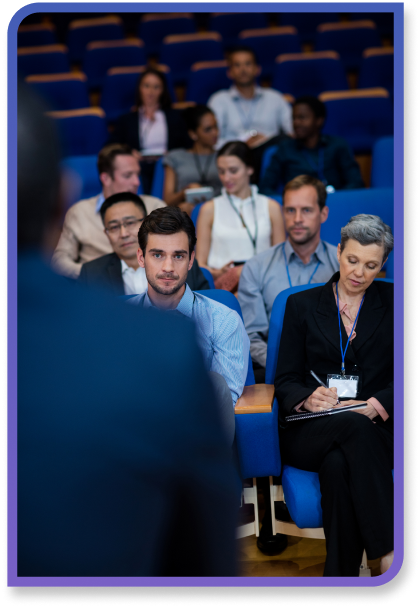
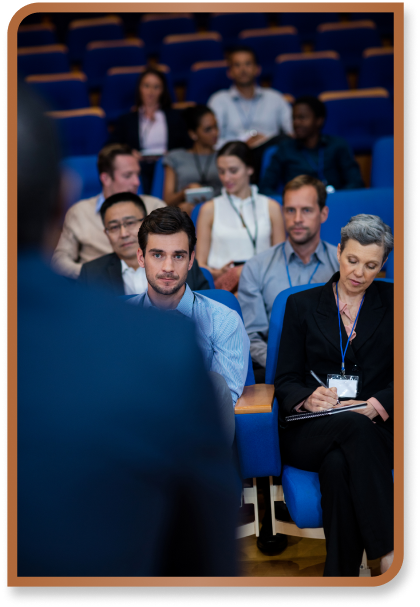
changed color scheme in hero and about us section, added animatinon and max paragraph width in about us

Changed region(s): [[0.0, 0.0, 0.9595, 0.9786]]

diff --git a/src/app/about/page.tsx b/src/app/about/page.tsx
@@ -1,56 +1,90 @@
+"use client"
+
+import { useState, useEffect } from "react";
 import React from "react";
 import Navbar from "@/components/Navbar";
 import Image from "next/image";
 import Link from "next/link";
 import Footer from "@/components/Footer";
 
+const GALLERY = [
+    {
+        url: "/about/hero.png"
+    },
+    {
+        url: "/about/hero2.png"
+    },
+    {
+        url: "/about/hero3.png"
+    },
+    {
+        url: "/about/hero4.png"
+    },
+]
+
+
 const About = () => {
+    const [currentIndex, setCurrentIndex] = useState(0);
+
+  useEffect(() => {
+    const intervalId = setInterval(() => {
+      setCurrentIndex((prevIndex) => (prevIndex + 1) % GALLERY.length);
+    }, 3000); // Set the desired interval time (in milliseconds)
+
+    return () => {
+      clearInterval(intervalId);
+    };
+  }, []);
   return (
     <>
     <Navbar />
     <div className="w-screen bg-HeroBackground">
-        <div className="mx-auto w-screen maxw-[1440px]">
-            <div className="relative w-full h-screen max-h-[800px]">
+        <div className="mx-auto w-screen">
+            <div className="relative w-full h-screen 2xl:h-[80vh] 4xl:max-h-[900px] overflow-hidden">
                 {/* top gradient*/}
-                <div className="absolute top-[-5%] w-full h-[70%] opacity-70 bg-gradient-to-b from-[#0e213f] to-transparent blur-3xl "></div>
+                <div className="absolute top-[-5%] w-full h-[70%] opacity-70 bg-gradient-to-b z-10 from-[#0e213f] to-transparent blur-3xl"></div>
 
                 {/* <div className="absolute bottom="> */}
                 <div className="absolute w-full bottom-[-10%] overflow-hidden h-[40%] z-20">
-                    <Image 
+                    {/* <Image 
                         src="/hero/GroupBottom.png" 
                         alt="About Hero img"
                         width={1920}
                         height={1080}
                         quality={100}
-                        className="w-full"
-                    ></Image>
+                        className="w-full h-full"
+                    ></Image> */}
                 </div>
-                    {/* bottom gradient*/}
-                    <div className="absolute bottom-[-10%] w-full h-[80%] bg-gradient-to-t from-[#0e203d] to-transparent blur-xl "></div>
-                    <div className="absolute bottom-[-10%] w-full h-[40%] bg-gradient-to-t from-[#0d2244] to-transparent blur-xl "></div>
-                    <div className="absolute bottom-[-10%] w-full h-[25%] bg-gradient-to-t from-[#0e213f] to-transparent blur- "></div>
-                {/* </div> */}
+                {/* bottom gradient*/}
+                <div className="absolute bottom-[-10%] w-full h-[80%] bg-gradient-to-t z-10 from-[#001212] to-transparent blur-xl "></div>
+                <div className="absolute bottom-[-10%] w-full h-[40%] bg-gradient-to-t z-10 from-[#001212] to-transparent blur-xl "></div>
 
                 {/* right gradient*/}
-                <div className="absolute right-0 -top-2 w-[5%] h-full bg-gradient-to-l from-[#0e213f] to-transparent blur-xl "></div>
-                <div className="absolute right-0 w-[5%] -top-2 h-full bg-gradient-to-l from-[##0e213f] to-transparent blurxl "></div>
+                <div className="absolute right-0 -top-2 w-[5%] h-full bg-gradient-to-l z-10 from-[#001212] to-transparent blur-2xl "></div>
+                <div className="absolute right-0 w-[5%] -top-2 h-full bg-gradient-to-l z-10 from-[#001212] to-transparent blur-3xl"></div>
 
                 {/* left gradient*/}
-                <div className="absolute -left-2 -top-2 w-[5%] h-[111%] bg-gradient-to-r from-[#0e213f] to-transparent blur-sm "></div>
+                <div className="absolute -left-2 -top-2 w-[5%] h-[111%] bg-gradient-to-r z-10 from-[#001212] to-transparent blur-lg "></div>
 
-                <Image 
-                    src="/about/hero.png" 
-                    alt="About Hero img"
-                    width={1920}
-                    height={1080}
-                    quality={100}
-                    className="w-full h-[100%]"
-                ></Image>
-                <h1 className="absolute top-1/2 left-1/2 -translate-x-1/2 -translate-y-1/2 font-bold text-[10vw] 2xl:text-[150px]">About Us</h1>
+                {GALLERY.map((image, index) => (
+                    <Image 
+                        key={index}
+                        src={image.url}
+                        alt={image.url}
+                        width={1920}
+                        height={1080}
+                        quality={100}
+                        className={`animate-fade-in absolute inset-0 h-full transition-all z-5 -translate-y-[30px] opacity-1 duration4000 ease-in-out w-full rounded-lg object-cover transform
+                            ${currentIndex === 2 ? "animate-from-bottom":""}
+                            ${index === currentIndex ? "block" : "hidden"}
+                        `}
+                    ></Image>
+                ))}
+            <h1 className="absolute top-1/2 left-1/2 z-10 -translate-x-1/2 -translate-y-1/2 font-bold text-[10vw] 2xl:text-[150px]">About Us</h1>
             </div>
-            <div className="bg-carouselBackground w-full">
-                <h1 className="bg-gradient-to-r from-[#445DB6] to-[#7860C5] text-transparent bg-clip-text text-2xl lg:text-3xl pt-[120px] text-center font-bold 3xl:text-[2vw] 4xl:text-3xl">PREVIOUS EDITION</h1>
-                <p className="text-[#143A81] w-[85%] lg:w-[80%] mx-auto lg:text-lg mt-4 pb-4 3xl:text-[1.3vw] 3xl:leading-[2vw] 4xl:text-xl " 
+            <div className="bg-[#D7E1E3] w-full">
+                <h1 className="bg-textBG text-transparent bg-clip-text text-2xl lg:text-3xl pt-[120px] text-center font-bold 3xl:text-[2vw] 4xl:text-3xl">PREVIOUS EDITION</h1>
+                <p className="text-[#051418] max-w-[1920px] w-[85%] lg:w-[80%] mx-auto lg:text-lg mt-4 pb-12 3xl:text-[1.3vw] 3xl:leading-[2vw] 4xl:text-xl " 
                     style={{
                         wordWrap: 'break-word',
                         whiteSpace: 'pre-line',
@@ -75,7 +109,7 @@ const About = () => {
                     height={1080}
                     className="absolute w-full bottom-0"
                 ></Image> */}
-                <div className="flex w-[95%] lg:w-[80%] mx-auto pt-12 gap-2 lg:gap-16 pb-[70px] 3xl:text-[1.1vw] 3xl:leading-[2vw] 4xl:text-xl">
+                <div className="flex w-[95%] lg:w-[80%] mx-auto pt-12 gap-2 max-w-[1920px] lg:gap-16 pb-[70px] 3xl:text-[1.1vw] 3xl:leading-[2vw] 4xl:text-xl">
                     <div>
                         <h1 className="text-center text-2xl font-bold">ABOUT KIIT</h1> 
                         <div className="flex justify-center">
@@ -120,10 +154,10 @@ const About = () => {
                     </div> 
                 </div>
             </div>
-            <div className="w-full bg-carouselBackground">
-                <h1 className="bg-gradient-to-r from-[#445DB6] to-[#7860C5] text-transparent bg-clip-text text-2xl lg:text-3xl pt-[50px] text-center font-bold">ABOUT FOUNDER</h1>
+            <div className="w-full bg-[#D7E1E3] ">
+                <h1 className="bg-textBG text-transparent bg-clip-text text-2xl lg:text-3xl pt-[50px] text-center font-bold">ABOUT FOUNDER</h1>
                 <div className="flex justify-center">
-                    <div className="bg-gradient-to-b relative w-[150px] h-[150px] from-[#445DB6] to-[#7860C5] p-1 rounded-full mt-2">
+                    <div className="bg-gradient-to-b relative w-[150px] h-[150px] from-[#001212] to-[#1A4D54] p-1 rounded-full mt-2">
                         <span className="bg-white absolute w-[140px] h-[140px] top-1/2 flex justify-center items-center -translate-x-1/2 left-1/2 -translate-y-1/2 rounded-full">
                             <Image
                                 src="/about/founder.png" 
@@ -135,7 +169,7 @@ const About = () => {
                         </span>
                     </div>
                 </div>
-                <div className="flex w-[95%] lg:w-[80%] mx-auto gap-2 lg:gap-12 pb-[70px] text-[#143A81] 3xl:text-[1.3vw] 3xl:leading-[2vw] 4xl:text-xl" 
+                <div className="flex w-[95%] lg:w-[80%] max-w-[1920px] mx-auto gap-2 lg:gap-12 pb-[70px] text-[#020B10] 3xl:text-[1.3vw] 3xl:leading-[2vw] 4xl:text-xl" 
                     style={{
                         wordWrap: 'break-word',
                         whiteSpace: 'pre-line',
@@ -167,7 +201,7 @@ const About = () => {
                         className="h-full w-full"
                     ></Image>
                 </div>
-                <div className="w-[95%] lg:w-[80%] mx-auto"
+                <div className="w-[95%] lg:w-[80%] mx-auto max-w-[1920px] pb-12"
                     style={{
                         wordWrap: 'break-word',
                         whiteSpace: 'pre-line',
@@ -182,10 +216,6 @@ const About = () => {
                     <p className="mt-8 3xl:text-[1.1vw] 3xl:leading-[2vw] 4xl:text-xl">
                         Contrary to popular belief, Lorem Ipsum is not simply random text. It has roots in a piece of classical Latin literature from 45 BC, making it over 2000 years old. Richard McClintock, a Latin professor at Hampden-Sydney College in Virginia, looked up one of the more obscure Latin words, consectetur, from a Lorem Ipsum passage, and going through the cites of the word in classical literature, discovered the undoubtable source. Lorem Ipsum comes from sections 1.10.32 and 1.10.33 of de Finibus Bonorum Malorum The Extremes of Good and Evil by Cicero, written in 45 BC. This book is a treatise on the theory of ethics, very popular during the Renaissance. The first line of Lorem Ipsum, Lorem ipsum dolor sit amet.., comes from a line in section 1.10.32. The standard chunk of Lorem Ipsum used since the 1500s is reproduced below for those interested. Sections 1.10.32 and 1.10.33 from de Finibus Bonorum et Malorum by Cicero are also reproduced in their exact original form, accompanied by English versions from the 1914 translation by H. Rackham
                     </p>
-                </div>
-                <div className="mt-12 relative">
-                    <div className="bg-gradient-to-r from-[#445DB6] to-[#7860C5] w-full h-4 blur-lg "></div>
-                    <div className="bg-gradient-to-r from-[#445DB6] to-[#7860C5] w-full h-2 top-1/2 -translate-y-1/2 absolute"></div>
                 </div>
             </div>
         </div>

diff --git a/src/components/Hero.tsx b/src/components/Hero.tsx
@@ -9,7 +9,6 @@ import { TfiWorld } from "react-icons/tfi";
 const Hero = () => {
   return (
     <>
-    {/* <HeroMobileView /> */}
     <div className="font-sans w-screen h[150vh] bg-HeroBackground overflow-x-hidden z-[-10] hidden sm:block">
       <Image
         src="/hero/GroupTop.png"
@@ -95,16 +94,16 @@ const Hero = () => {
           </div>
           <div className="flex text-[40px] z-40">
             <Link href="https://www.google.com" target="_blank">
-              <TfiWorld className="border-r-none h-20 w-20 border-2 border-r-0 border-[#445DB6] px-4 py-4 bg-buttonBackground" />
+              <TfiWorld className="border-r-none h-20 w-20 border-2 border-r-0 border-[#AF693B] px-4 py-4 bg-buttonBackground" />
             </Link>
             <Link href="https://www.google.com" target="_blank">
-              <FaRegCalendarAlt className="h-20 w-20 border-2 border-r-0 border-[#445DB6] px-4 py-4" />
+              <FaRegCalendarAlt className="h-20 w-20 border-2 border-r-0 border-[#AF693B] px-4 py-4" />
             </Link>
             <Link href="https://www.google.com" target="_blank">
-              <FaImage className="h-20 w-20 border-2 border-r-0 border-[#445DB6] px-4 py-4" />
+              <FaImage className="h-20 w-20 border-2 border-r-0 border-[#AF693B] px-4 py-4" />
             </Link>
             <Link href="https://www.google.com" target="_blank">
-              <MdSecurity className="h-20 w-20 border-2 border-[#445DB6] px-4 py-4" />
+              <MdSecurity className="h-20 w-20 border-2 border-[#AF693B] px-4 py-4" />
             </Link>
           </div>
         </div>

diff --git a/src/components/EventDetail.tsx b/src/components/EventDetail.tsx
@@ -10,9 +10,9 @@ type EventDetailProps = {
 const EventDetail = ({ day, year, title, paragraph }: EventDetailProps) => {
   return (
     <div className="flex sm:gap-4 xl:gap-8">
-        <div className="rounded-full lg:w-[132px] sm:w-[100px] sm:h-[100px] md:w-[115px] md:h-[115px] flex-shrink-0 lg:h-[132px] bg-gradient-to-b from-[#445DB6] to-[#7860C5] p-[2px]">
-            <div className="h-full w-full rounded-full flex flex-col items-center justify-center bg-gradient-to-b from-[#011a41] to-[#1F3B68]">
-                <span className="sm:text-2xl md:text-3xl xl:text-4xl font-bold bg-gradient-to-r from-[#445DB6] to-[#7860C5] text-transparent bg-clip-text">{day}</span>
+        <div className="rounded-full lg:w-[132px] sm:w-[100px] sm:h-[100px] md:w-[115px] md:h-[115px] flex-shrink-0 lg:h-[132px] bg-gradient-to-b from-[#B0693B] to-[#C0896A] p-[2px]">
+            <div className="h-full w-full rounded-full flex flex-col items-center justify-center bg-gradient-to-b from-[#093338] to-[#1A4D54]">
+                <span className="sm:text-2xl md:text-3xl x1A4D54l:text-4xl font-bold bg-gradient-to-r from-[#B0693B] to-[#C0896A] text-transparent bg-clip-text">{day}</span>
                 <span className="sm:text-xs lg:text-sm">{year}</span>
             </div>
         </div>

diff --git a/tailwind.config.js b/tailwind.config.js
@@ -11,10 +11,11 @@ module.exports = {
       backgroundImage: {
         'gradient-radial': 'radial-gradient(var(--tw-gradient-stops))',
         'gradient-conic': 'conic-gradient(from 180deg at 50% 50%, var(--tw-gradient-stops))',
-      HeroBackground: "linear-gradient(180deg, #060911 7.95%, #1F3B68 53.38%, #060911 100%)",
-      EventBackground: "linear-gradient(180deg, #060911 7.95%, #1F3B68 47.38%, #060911 100%)",
-      buttonBackground: "linear-gradient(90deg, #445DB6 0%, #7860C5 100%);",
+      HeroBackground: "linear-gradient(180deg, #001212 7.95%, #1A4D54 53.43%, #001212 85.60%);",
+      EventBackground: "linear-gradient(180deg, #001212 7.95%, #1A4D54 47.43%, #001212 100%);",
+      buttonBackground: "linear-gradient(90deg, #B0693B 0%, #C0896A 48.23%, #AF693B 100%)",
       MobileHeader: "linear-gradient(180deg, #445DB6 0%, #7860C5 100%);",
+      textBG: "linear-gradient(180deg, #001212 7.95%, #1A4D54 47.43%, #001212 100%);"
       },
         screens: {
         "3xl": "1440px",

diff --git a/src/app/globals.css b/src/app/globals.css
@@ -25,3 +25,37 @@ body {
     )
     rgb(var(--background-start-rgb)); */
 }
+
+@keyframes from-top {
+  from { 
+    opacity: 0;
+    transform: translateY(-50px);
+    }
+  to { 
+    opacity: 1; 
+    transform: translateY(-30px);
+  }
+}
+
+.animate-fade-in {
+  animation-name: from-top;
+  animation-duration: 1.5s;
+  animation-timing-function: ease-in-out;
+}
+
+@keyframes from-bottom {
+  from { 
+    opacity: 0;
+    transform: translateY(10px);
+    }
+  to { 
+    opacity: 1; 
+    transform: translateY(-30px);
+  }
+}
+
+.animate-from-bottom {
+  animation-name: from-bottom;
+  animation-duration: 1.5s;
+  animation-timing-function: ease-in-out;
+}

diff --git a/src/components/Event.tsx b/src/components/Event.tsx
@@ -4,7 +4,7 @@ import EventDetail from "./EventDetail";
 
 const Event = () => {
   return (
-    <div className="lg:h-screen py-8 lg:py-0 bg-EventBackground max-h-[800px]">
+    <div className="lg:h-screen py-8 lg:py-0 bg-HeroBackground max-h-[800px]">
       <Image 
         src="/hero/GroupTop.png" 
         alt="" 
